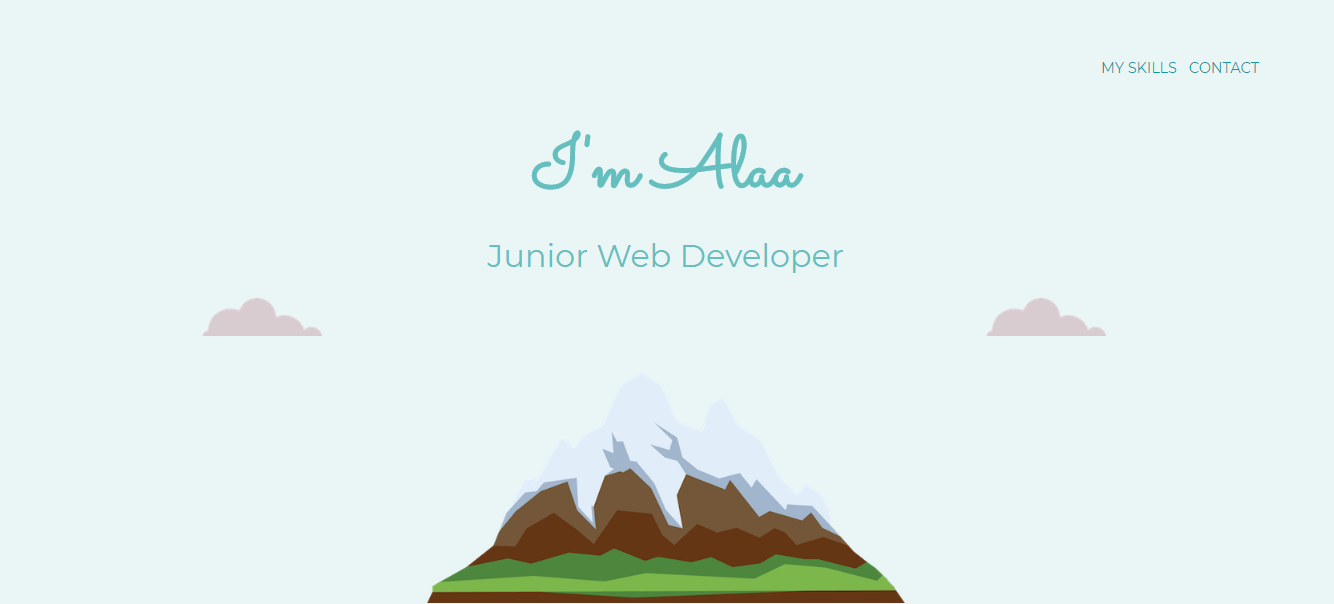
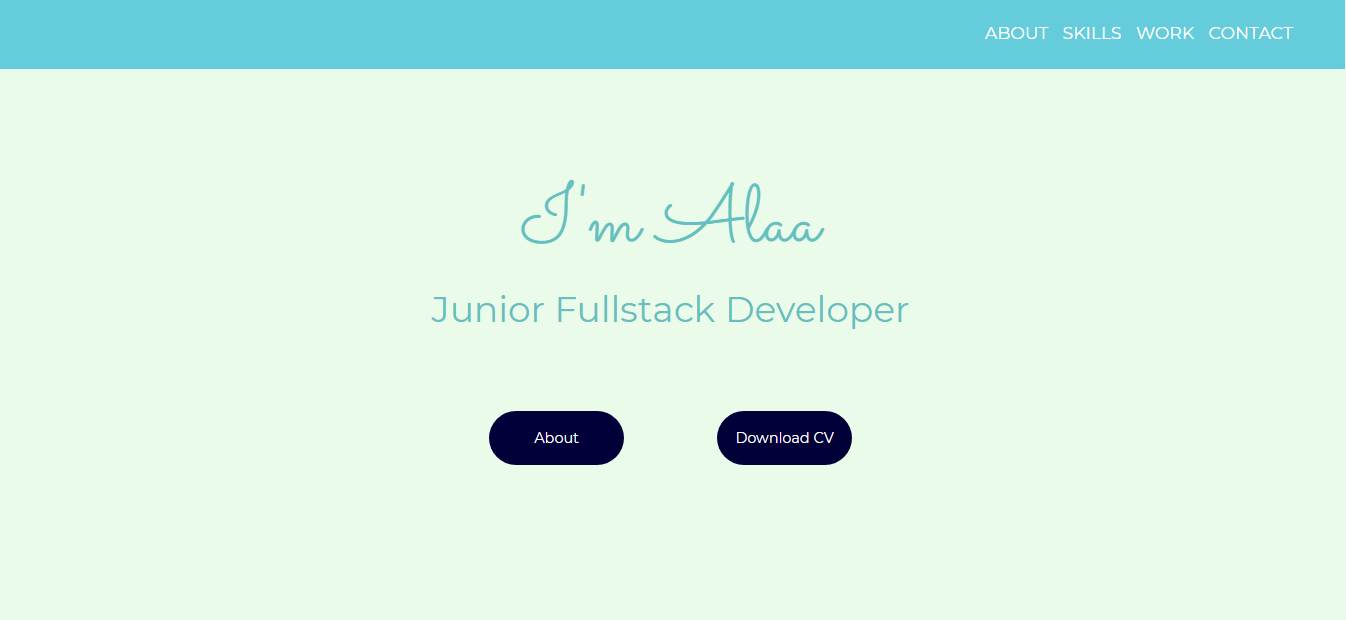
adding the forth project

diff --git a/index.html b/index.html
@@ -8,6 +8,8 @@
       
       <!--Favicon-->
       <link rel="icon" href="./favicon.ico">
+      <!--Font awesome-->
+      <script src="https://kit.fontawesome.com/cad3ea0204.js" crossorigin="anonymous"></script>
 
       <!--Google fonts-->
       <link href="https://fonts.googleapis.com/css?family=Merriweather|Montserrat|Sacramento&display=swap" rel="stylesheet">
@@ -37,7 +39,7 @@
      <div class="top-container">
         <img class="top-cloud" src="./Images/cloud.png" alt="cloud-img">
         <!-- Nav Bar -->
-     <nav class="nav-bar navbar navbar-expand-lg navbar-dark">
+     <nav class="nav-bar navbar navbar-expand-lg navbar-dark fixed-top">
         <a class="navbar-brand" href=""></a>
   
         <button class="navbar-toggler" type="button" data-toggle="collapse" data-target="#navbarSupportedContent"
@@ -76,7 +78,7 @@
 
 
        <h1 class="my-name">I'm Alaa</h1>
-       <h4>Junior Web Developer</h4>
+       <h4>Junior Fullstack Developer</h4>
        
        
        <a class="about-btn top-container-btn" href="#about">About</a>
@@ -111,19 +113,22 @@
                   <div class="work">
                     <h2 id="work">Portfolio</h2>
                     
-                    <a href="https://github.com/alaamzn/My-FacebookMessenger-Chatbot" >
+                    <a href="https://github.com/alaamzn/My-FacebookMessenger-Chatbot" target="_blank">
                     <img src="./Images/all in one.PNG" alt="Chatbot project"
                     class="project-image"></a>
                       
 
                     
-                    <a href="https://alaamzn.github.io/Personal-Website/" > 
+                    <a href="https://alaamzn.github.io/Personal-Website/" target="_blank"> 
                     <img src="./Images/personal website image.PNG" alt="personal website project" class="project-image"></a>
                       
  
                     
-                    <a href="https://alaamzn.github.io/Responsive-Bootstrap-website/"><img src="./Images/bootstrap-website.PNG" alt="website built using bootstrap" class="project-image"></a>
-                    
+                    <a href="https://alaamzn.github.io/Responsive-Bootstrap-website/" target="_blank"><img src="./Images/bootstrap-website.PNG" alt="website built using bootstrap" class="project-image"></a>
+
+
+
+                    <a href="https://alaamzn.github.io/Company-Website-From-Scratch/" target="_blank"><img src="./Images/forth-project.PNG" alt="Landing page from scratch" class="project-image"></a>
                   
                 </div>
                   <hr>
@@ -140,9 +145,10 @@
                 
                 
                 <div class="bottom-container" id="bottom">
-                  <a class="footer-link" href="https://www.linkedin.com/">LinkedIn</a>
-                  <a class="footer-link" href="https://twitter.com/">Twitter</a>
-                  <a class="footer-link" href="https://www.appbrewery.co/">Website</a>
+                  <a class="footer-link" href="https://github.com/alaamzn"><i class="fab fa-github fa-2x"></i></a>
+                  <a class="footer-link" href="#"><i class="far fa-envelope fa-2x"></i></a>
+                  <a class="footer-link" href="https://www.linkedin.com/in/alaa-mezni-22569315b/"><i class="fab fa-linkedin-in fa-2x"></i></a>
+                  <a class="footer-link" href="https://www.xing.com/profile/alaa_mezni/cv"><i class="fab fa-xing fa-2x"></i></a>
                   <p class="copyright">© 2019 Alaa Mezni.</p>
                 </div>
                 

diff --git a/css/style1.css b/css/style1.css
@@ -43,7 +43,7 @@ h4 {
 .top-container-btn{
       width: 300px;
       height: 100px;
-      background: #11cdd4;
+      background: #010038;
       color: white;
       position: relative;
       top: 100px;
@@ -65,7 +65,7 @@ h4 {
 
 
 
-/* Important words in the dscription paragraph */
+/* Important words in the description paragraph */
 
 .important-word{
       background: cadetblue;
@@ -103,7 +103,7 @@ p {
       height: 758px;
       padding: 0px 0 400px 0;
       margin-bottom: 200px;
-      background: #EAF6F6;
+      
       position: relative;
 }
 .bottom-mountain{
@@ -127,10 +127,11 @@ p {
 }
 */
 nav{
-      background-color: #11cdd4;
+      background-color: #64ccda;
       position: fixed; 
       top: 0;  
-      padding: 5px 50px 5px 20px !important;
+      font-size: 1.2rem;
+      padding: 18px 50px 18px 20px !important;
 }
 
 .nav-link{
@@ -146,7 +147,7 @@ nav{
       padding: 50px 10px 15px;
       margin-top: 80px;
       margin-bottom: 0px;
-      background-color: #66BFBF;
+      
 }
 
 
@@ -212,14 +213,16 @@ nav{
 
 
 .footer-link {
-      color: #11999E;
+      
       margin: 30px auto;
 }
+
+
 
 .copyright {
       font-size: 0.75rem;
       padding-top: 40px;
-      color: #EAF6F6;
+      color: black;
 }
 
 .btn {
